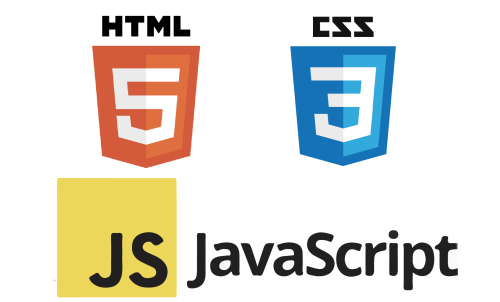
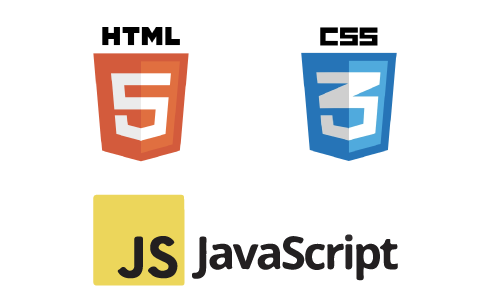
Program page changes
images modified, background add to competencies,

Changed region(s): [[0.09, 0.03, 0.93, 0.99], [0.57, 0.03, 0.81, 0.57], [0.18, 0.48, 0.21, 0.51]]

diff --git a/pages/program.html b/pages/program.html
@@ -4,6 +4,7 @@ title: Program
 permalink: /get-involved/program/ 
 ---
 <!--Program Content start-->
+<link rel="stylesheet" href="{{ site.baseurl }}/css/program.css"/>
 <main>
     <!--Slider-->
     <section id="slider" class="wrapper-program-slider">
@@ -108,7 +109,7 @@ permalink: /get-involved/program/
                     <div class="col-md-12">
                         <h1>Curriculum</h1>
                         <p class="p-font1 text-left">
-                            <strong>&lt;dev/Mission&gt;</strong>focuses on developing our participants’ ability to use digital technology and communications tools to access, manage, integrate, evaluate, create and communicate information in order to function successfully in a 21st century information technology and economy.</p>
+                            <strong>&lt;dev/Mission&gt;</strong> focuses on developing our participants’ ability to use digital technology and communications tools to access, manage, integrate, evaluate, create and communicate information in order to function successfully in a 21st century information technology and economy.</p>
                         <p class="p-font1 text-left">By learning and involving themselves in hands on; special projects supporting local cbo’s in their respective communities, taking field trips to high tech companies and hearing from emerging leaders, young adults ages 16-24 are able to hone technical competencies and grasp lifelong principles that inspire educational advancement and workforce job readiness preparation.</p>
                         <p class="text-left" style="font-family: 'Montserrat', sans-serif;">
                             The curriculum is comprised of three main competencies:
@@ -153,7 +154,7 @@ permalink: /get-involved/program/
                             </div>
                         </div>
 
-                        <!--Networking-->
+                        <!--Critical Skills-->
                         <div class="row skills">
                             <div class="col-sm-6">
                                 <h3>Critical Skills</h3>
@@ -169,7 +170,7 @@ permalink: /get-involved/program/
                             </div>
                             <div class="col-sm-6 hide-sm">
 
-                                <img class="img-justify" src="{{ site.baseurl }}/img/program/networking-img.png" alt="networking">
+                                <img id="networking-img" class="img-justify" src="{{ site.baseurl }}/img/program/networking-img.png" alt="networking">
 
                             </div>
                         </div>

diff --git a/_includes/head.html b/_includes/head.html
@@ -22,15 +22,11 @@
 <link rel="stylesheet" href="{{ site.baseurl }}/css/animate.css" />
 <link rel="stylesheet" href="{{ site.baseurl }}/css/responsive.css" />
 <link rel="stylesheet" href="{{ site.baseurl }}/css/syntax.css" />
-
 <link rel="stylesheet" href="{{ site.baseurl }}/css/aboutUs.css" />
 <link rel="stylesheet" href="{{ site.baseurl }}/css/individualBios.css" />
 <link href="//netdna.bootstrapcdn.com/font-awesome/4.7.0/css/font-awesome.min.css" rel="stylesheet">
 <link href="//cdnjs.cloudflare.com/ajax/libs/foundicons/3.0.0/foundation-icons.css" media="screen" rel="stylesheet">
 <link href="//cdnjs.cloudflare.com/ajax/libs/foundation/5.5.0/css/normalize.css" media="screen" rel="stylesheet">
-
-<link rel="stylesheet" href="{{ site.baseurl }}/css/program.css" />
-
 <link rel="stylesheet" href="//fonts.googleapis.com/css?family=Open+Sans:400,300,600)" />
 <link rel="stylesheet" href="//fonts.googleapis.com/css?family=Roboto:400,100,300,500,700" />
 <link rel="stylesheet" href="//fonts.googleapis.com/css?family=Volkhov:400italic" />

diff --git a/_site/get-involved/donate/index.html b/_site/get-involved/donate/index.html
@@ -26,15 +26,11 @@
 <link rel="stylesheet" href="/devmission.org/css/animate.css" />
 <link rel="stylesheet" href="/devmission.org/css/responsive.css" />
 <link rel="stylesheet" href="/devmission.org/css/syntax.css" />
-
 <link rel="stylesheet" href="/devmission.org/css/aboutUs.css" />
 <link rel="stylesheet" href="/devmission.org/css/individualBios.css" />
 <link href="//netdna.bootstrapcdn.com/font-awesome/4.7.0/css/font-awesome.min.css" rel="stylesheet">
 <link href="//cdnjs.cloudflare.com/ajax/libs/foundicons/3.0.0/foundation-icons.css" media="screen" rel="stylesheet">
 <link href="//cdnjs.cloudflare.com/ajax/libs/foundation/5.5.0/css/normalize.css" media="screen" rel="stylesheet">
-
-<link rel="stylesheet" href="/devmission.org/css/program.css" />
-
 <link rel="stylesheet" href="//fonts.googleapis.com/css?family=Open+Sans:400,300,600)" />
 <link rel="stylesheet" href="//fonts.googleapis.com/css?family=Roboto:400,100,300,500,700" />
 <link rel="stylesheet" href="//fonts.googleapis.com/css?family=Volkhov:400italic" />

diff --git a/_site/get-involved/index.html b/_site/get-involved/index.html
@@ -26,15 +26,11 @@
 <link rel="stylesheet" href="/devmission.org/css/animate.css" />
 <link rel="stylesheet" href="/devmission.org/css/responsive.css" />
 <link rel="stylesheet" href="/devmission.org/css/syntax.css" />
-
 <link rel="stylesheet" href="/devmission.org/css/aboutUs.css" />
 <link rel="stylesheet" href="/devmission.org/css/individualBios.css" />
 <link href="//netdna.bootstrapcdn.com/font-awesome/4.7.0/css/font-awesome.min.css" rel="stylesheet">
 <link href="//cdnjs.cloudflare.com/ajax/libs/foundicons/3.0.0/foundation-icons.css" media="screen" rel="stylesheet">
 <link href="//cdnjs.cloudflare.com/ajax/libs/foundation/5.5.0/css/normalize.css" media="screen" rel="stylesheet">
-
-<link rel="stylesheet" href="/devmission.org/css/program.css" />
-
 <link rel="stylesheet" href="//fonts.googleapis.com/css?family=Open+Sans:400,300,600)" />
 <link rel="stylesheet" href="//fonts.googleapis.com/css?family=Roboto:400,100,300,500,700" />
 <link rel="stylesheet" href="//fonts.googleapis.com/css?family=Volkhov:400italic" />

diff --git a/_site/get-involved/volunteer/index.html b/_site/get-involved/volunteer/index.html
@@ -26,15 +26,11 @@
 <link rel="stylesheet" href="/devmission.org/css/animate.css" />
 <link rel="stylesheet" href="/devmission.org/css/responsive.css" />
 <link rel="stylesheet" href="/devmission.org/css/syntax.css" />
-
 <link rel="stylesheet" href="/devmission.org/css/aboutUs.css" />
 <link rel="stylesheet" href="/devmission.org/css/individualBios.css" />
 <link href="//netdna.bootstrapcdn.com/font-awesome/4.7.0/css/font-awesome.min.css" rel="stylesheet">
 <link href="//cdnjs.cloudflare.com/ajax/libs/foundicons/3.0.0/foundation-icons.css" media="screen" rel="stylesheet">
 <link href="//cdnjs.cloudflare.com/ajax/libs/foundation/5.5.0/css/normalize.css" media="screen" rel="stylesheet">
-
-<link rel="stylesheet" href="/devmission.org/css/program.css" />
-
 <link rel="stylesheet" href="//fonts.googleapis.com/css?family=Open+Sans:400,300,600)" />
 <link rel="stylesheet" href="//fonts.googleapis.com/css?family=Roboto:400,100,300,500,700" />
 <link rel="stylesheet" href="//fonts.googleapis.com/css?family=Volkhov:400italic" />

diff --git a/css/program.css b/css/program.css
@@ -14,6 +14,10 @@
 }
 .img-justify{
     width: 100% !important;
+    margin: 2% 0;
+}
+#networking-img{
+    width: 78% !important;
 }
 main {
     text-align: center;
@@ -151,7 +155,10 @@ main .overview {
 background-color: azure;
 }
 
-.hardware, 
+.hardware{
+background-color: whitesmoke;
+}
+
 .skills{
 background-color: honeydew;
 }
